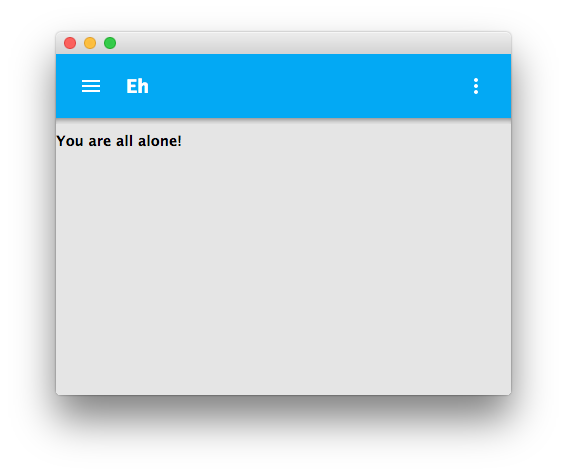
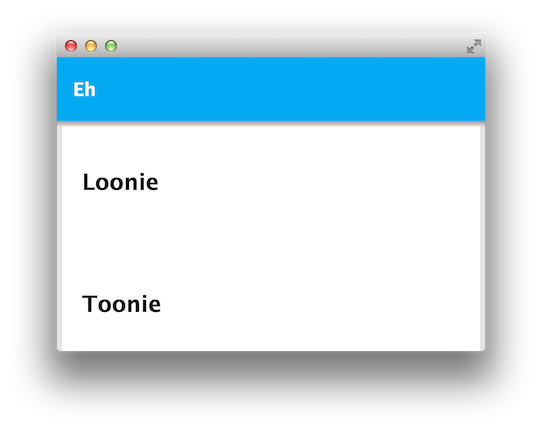
step0 docs

diff --git a/workshop/step2/main.js b/workshop/step2/main.js
@@ -37,5 +37,10 @@ function attemptLogin() {
 }
 
 window.addEventListener('polymer-ready', function(e) {
+  var contacts = [
+    { name: "Loonie" },
+    { name: "Toonie" }
+  ];
+  document.getElementById('contacts').contacts = contacts;
   attemptLogin();
 });

diff --git a/workshop/step1/main.js b/workshop/step1/main.js
@@ -1,2 +1,7 @@
 window.addEventListener('polymer-ready', function(e) {
+  var contacts = [
+    { name: "Loonie" },
+    { name: "Toonie" }
+  ];
+  document.getElementById('contacts').contacts = contacts;
 });

diff --git a/docs/step1.md b/docs/step1.md
@@ -1,43 +1,10 @@
 ## Step 1: Getting started
 
-### Create a new project
-
-Start the Chrome Dev Editor. If this is the first time using the editor, you may be prompted with some initial setup steps.
-
-Select `New Project...`, then enter 'EhWorkApp', select the type `JavaScript Chrome App`, and tap `Create`.
-_You don't need to select **(using Polymer paper elements)**, as this workshop contains common resources for Polymer already._
-
-The editor will create a basic Chrome app that can be run on desktop or on mobile. Alternatively, the code for this is in  [begin](https://github.com/MobileChromeApps/workshop-cca-eh/blob/master/workshop/begin), and you can use `Open Folder...` to select and start with it.
-
-#### Deploy
-
-Right-click on the project and either select **Run** for desktop, or **Deploy To Mobile** for mobile. _As per [README.md](https://github.com/MobileChromeApps/workshop-cca-eh/blob/master/README.md), you'll need [CADT](https://github.com/MobileChromeApps/workshop-cca-eh/blob/master/README.md#deploy-to-mobile) installed on your mobile device_.
-
-#### Advanced
-
-Alternatively, you can use the `cca` via command-line to create the initial project-
-
-    cca create EhWorkApp
-
-From within the new `EhWorkApp` folder, you can then run on your native platform of choice-
-
-    cca run chrome
-    cca run android --device
-    cca run ios --device
-
-Alternatively, you can actively push to the CADT host app from `EhWorkApp/www`-
-
-    cca push --watch
-
-Or finally, you can open the `EhWorkApp/www` folder in the Chrome Dev Editor and follow the instructions above to start.
-
 ### Symlink assets
 
-Let's start working on the project itself!
+Let's start working on the project itself! After the previous step is completed (either with CDE or the `cca`, or just duplicate the [begin](https://github.com/MobileChromeApps/workshop-cca-eh/blob/master/workshop/begin) step), you should symlink in the common resources for Eh - the symlink should be created as a peer of `manifest.json`.
 
-Once it's created (either with CDE or the `cca`), you should symlink in the common resources for Eh - the symlink should be created as a peer of `manifest.json`.
-
-For CDE, this will look like:
+For CDE and the sample code, this will look like:
 
     ln -s /path/to/workshop-cca-eh/common EhWorkApp/common
 
@@ -82,9 +49,14 @@ And update `<body>` with our default Polymer elements and `eh-contact-list`:
 Now that our app is Polymer-based, we need to listen for the `polymer-ready` event to get started. Replace the contents of `main.js`, our foreground script, with these lines-
 
     window.addEventListener('polymer-ready', function(e) {
+      var contacts = [
+        { name: "Loonie" },
+        { name: "Toonie" }
+      ];
+      document.getElementById('contacts').contacts = contacts;
     });
 
-We'll add more code in here later.
+We'll add more code in here later. But for now, this just creates a couple of test contacts.
 
 #### CSS
 

diff --git a/docs/step0.md b/docs/step0.md
@@ -1,0 +1,42 @@
+## Step 0: Project setup
+
+### Create
+
+Start the Chrome Dev Editor. If this is the first time using the editor, you may be prompted with some initial setup steps.
+
+Select `New Project...`, then enter 'EhWorkApp', select the type `JavaScript Chrome App`, and tap `Create`.
+_You don't need to select **(using Polymer paper elements)**, as this workshop contains common resources for Polymer already._
+
+The editor will create a basic Chrome app that can be run on desktop or on mobile. Alternatively, the code for this is in  [begin](https://github.com/MobileChromeApps/workshop-cca-eh/blob/master/workshop/begin), and you can use `Open Folder...` to select and start with it.
+
+### Deploy
+
+Right-click on the project and either select **Run** for desktop, or **Deploy To Mobile** for mobile. _As per [README.md](https://github.com/MobileChromeApps/workshop-cca-eh/blob/master/README.md), you'll need [CADT](https://github.com/MobileChromeApps/workshop-cca-eh/blob/master/README.md#deploy-to-mobile) installed on your mobile device_.
+
+### Advanced
+
+Alternatively, you can use the `cca` via command-line to create the initial project-
+
+    cca create EhWorkApp
+
+From within the new `EhWorkApp` folder, you can then run on your native platform of choice-
+
+    cca run chrome
+    cca run android --device
+    cca run ios --device
+
+Alternatively, you can actively push to the CADT host app from `EhWorkApp/www`-
+
+    cca push --watch
+
+Or finally, you can open the `EhWorkApp/www` folder in the Chrome Dev Editor and follow the instructions above to start.
+
+### How's it going, eh
+
+If you run the app now - either on desktop or mobile - you should see a "Hello World" message.
+
+### Next up
+
+The code for this step is in [begin](https://github.com/MobileChromeApps/workshop-cca-eh/blob/master/workshop/begin).
+
+_**Continue to [Step 1: Getting started &raquo;](https://github.com/MobileChromeApps/workshop-cca-eh/blob/master/docs/step2.md)**_

diff --git a/docs/step3.md b/docs/step3.md
@@ -69,6 +69,14 @@ Then open `main.js` and define the `updateUI()` method-
 
 This will pass an `Array` of users to the custom Polymer element that renders contacts.
 
+_You might also want to remove or comment out the test code that added some contacts. These will be quickly replaced with real contacts, but you don't want your users to be confused._
+
+    // var contacts = [
+    //    { name: "Loonie" },
+    //    { name: "Toonie" }
+    // ];
+    // document.getElementById('contacts').contacts = contacts;
+
 If you run now, you might see some peers - but only those who have already completed the next step or who are running the final version of Eh. There's one more step in our way.
 
 ### Who goes there, eh?

diff --git a/docs/step2.md b/docs/step2.md
@@ -75,7 +75,8 @@ The code therefore needs to be inside `main.js`, which is run by the foreground 
 Inside the `ready` listener, add a method call-
 
     window.addEventListener('polymer-ready', function(e) {
-      attemptLogin();
+      **attemptLogin();**
+      // ...
     });
 
 Above the `ready` listener, let's add a helper to make HTTP requests, using XMLHTTPRequest (level 2)-
